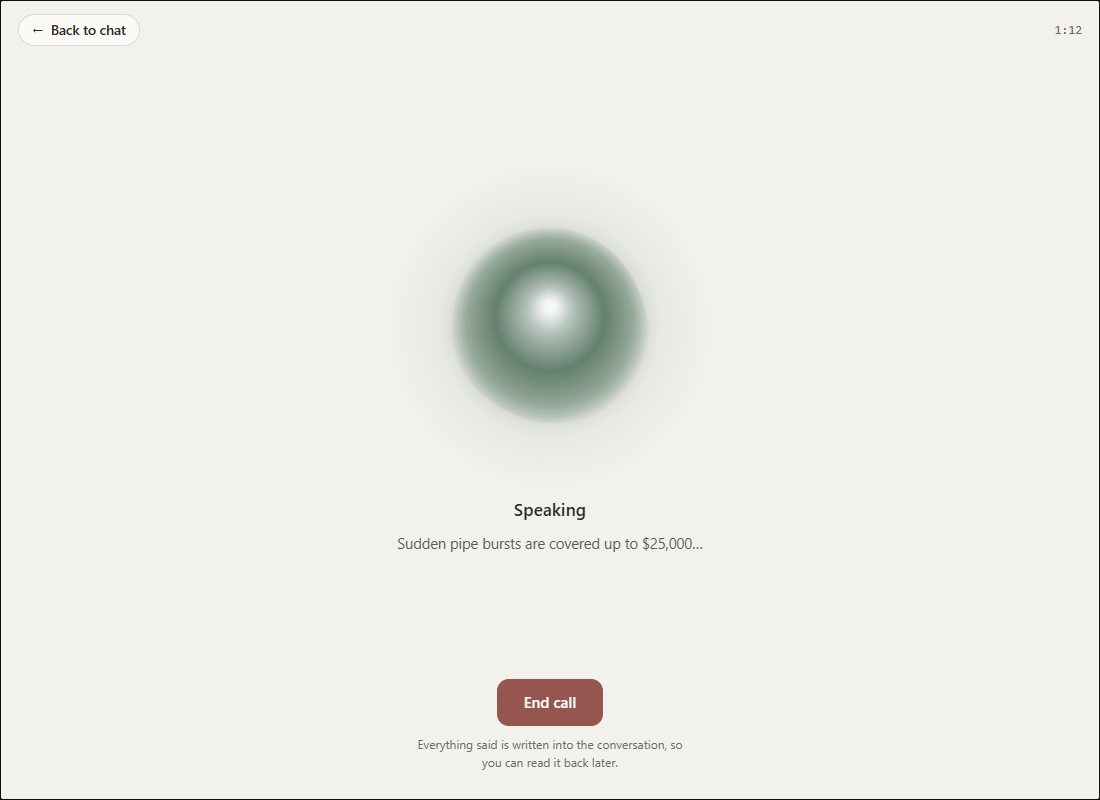
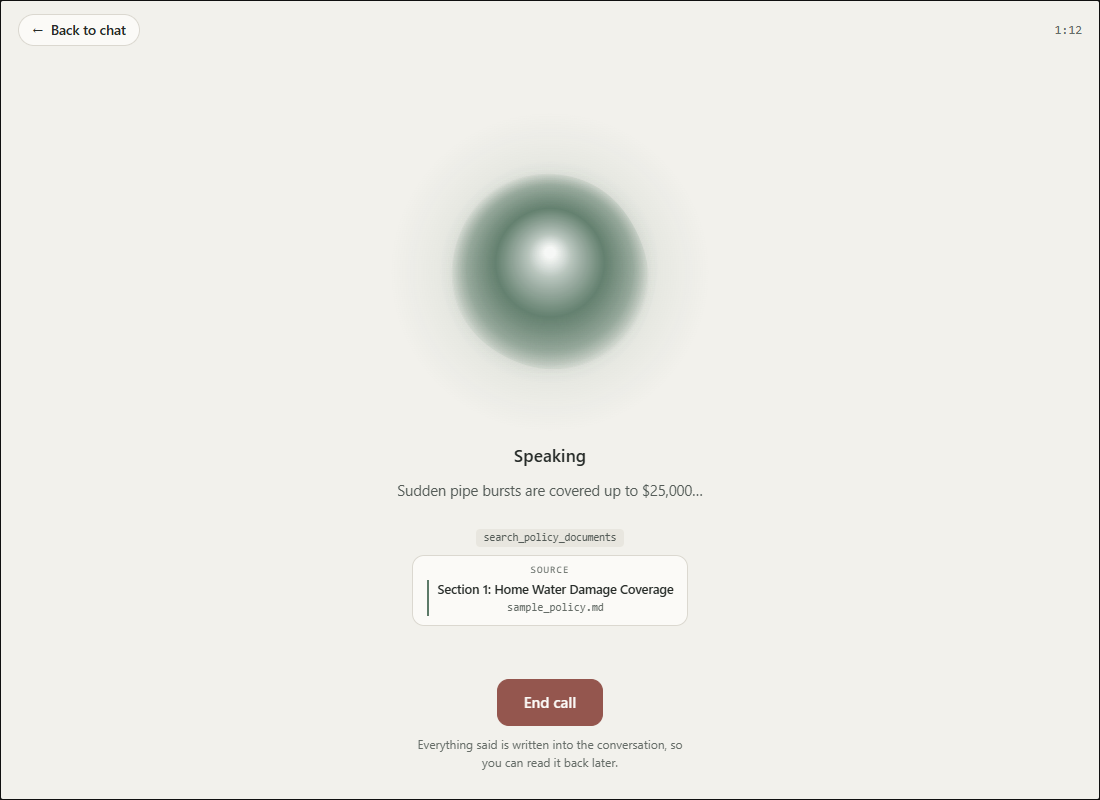
Show the tool and the citation on the call, not only behind it
Making the call full-screen put the conversation behind an opaque surface, and
tool chips and citations were still being written only there. So for exactly as
long as the caller was listening to an answer, the evidence that answer rests
on was invisible - and a coverage answer you cannot check is the thing this
system exists to avoid. Both now go to both places: the call surface, so they
can be seen while the answer is spoken, and the thread, so they survive it.

Three details that came out of building it:

- A second `sources` event is a restatement of the same turn, not an addition.
  Appending it put one section on screen twice under a single answer, which
  reads as two independent confirmations. Citations replace; tool chips stack,
  because two tools running really is two facts.
- The chip reads above the citation whichever event arrives first, ordered by
  what happened rather than by what landed.
- The status line said `search_policy_documents` mid-call. That is the
  function's name: fine in a chip, where it is evidence of what ran, and jargon
  in a status line, where the caller is being told what is happening.

Also cleared when a new question starts and when the call ends, so a section
consulted for the previous answer is never left sitting under this one.

355 tests.

Changed region(s): [[0.4018, 0.2188, 0.5873, 0.5312], [0.3709, 0.5625, 0.6491, 0.7812]]

diff --git a/frontend/src/voice.js b/frontend/src/voice.js
@@ -31,6 +31,7 @@
   const caption = document.getElementById("voice-caption");
   const phase = document.getElementById("voice-phase");
   const hangup = document.getElementById("voice-hangup");
+  const meta = document.getElementById("voice-meta");
   const back = document.getElementById("voice-back");
   const returnBar = document.getElementById("voice-return");
   const elapsed = document.getElementById("voice-elapsed");
@@ -61,8 +62,43 @@
     state.className = "pill pill--" + kind;
   }
 
+  /* What a policyholder should see while a tool runs. `search_policy_documents`
+     is the function's name; it belongs in the chip, where it is evidence of what
+     ran, not in the status line, where it is just jargon mid-call. */
+  const PHASE_LABELS = {
+    search_policy_documents: "Checking your policy",
+    get_claim_status: "Checking that claim",
+    submit_claim: "Preparing the claim",
+  };
+
+  function phaseLabel(raw) {
+    return PHASE_LABELS[raw] || raw;
+  }
+
+  /* Everything the current answer rests on, on the call surface itself.
+
+     Citations replace rather than stack: they describe the whole turn, so a
+     second `sources` event is a restatement, not an addition, and appending it
+     shows the same section twice under one answer. Tool chips do stack - two
+     tools running is two facts. */
+  function showOnCall(node) {
+    if (!meta) return;
+    if (node.classList.contains("sources")) {
+      const existing = meta.querySelector(".sources");
+      if (existing) {
+        existing.replaceWith(node);
+        return;
+      }
+    }
+    meta.appendChild(node);
+  }
+
+  function clearOnCall() {
+    if (meta) meta.replaceChildren();
+  }
+
   function setPhase(label, orbState) {
-    if (phase) phase.textContent = label;
+    if (phase) phase.textContent = phaseLabel(label);
     if (orb && orbState) orb.setState(orbState);
   }
 
@@ -154,6 +190,10 @@
         transcriptBubble.textContent = msg.text;
       }
     } else if (msg.type === "transcript_final") {
+      // A new question: whatever the last answer rested on no longer applies,
+      // and leaving it up would attribute this answer to a section that was
+      // never consulted for it.
+      clearOnCall();
       if (caption) caption.textContent = msg.text;
       if (transcriptBubble) {
         transcriptBubble.textContent = msg.text;
@@ -169,9 +209,13 @@
       if (caption) caption.textContent = "";
       appendAnswer(msg.text);
     } else if (msg.type === "sources") {
+      // Both places: the call surface, so it is visible while the answer is
+      // being spoken, and the thread, so it survives the call.
       decorate(window.OmniCare.renderSources(msg.sources || []));
+      showOnCall(window.OmniCare.renderSources(msg.sources || []));
     } else if (msg.type === "tool") {
       decorate(window.OmniCare.renderToolCalls([msg]));
+      showOnCall(window.OmniCare.renderToolCalls([msg]));
     } else if (msg.type === "confirm") {
       // Spoken readback is handled by TTS; the panel mirrors it visually so the
       // policyholder can check the digits by eye as well as by ear - and it goes
@@ -289,6 +333,7 @@
     if (panel) panel.hidden = true;
     if (returnBar) returnBar.hidden = true;
     if (orb) orb.stop();
+    clearOnCall();
     releaseAudio();
     stopTicker();
     setBackgroundInert(false);

diff --git a/frontend/src/styles.css b/frontend/src/styles.css
@@ -463,3 +463,30 @@ main {
 @media (prefers-reduced-motion: reduce) {
   .voice-return__dot { animation: none; }
 }
+
+/* What the spoken answer rests on, shown on the call itself. Citations are the
+   one thing that makes a coverage answer checkable, and putting them only in
+   the thread hid them behind the very surface the caller is looking at. */
+.voice__meta {
+  display: flex;
+  flex-direction: column;
+  align-items: center;
+  gap: 8px;
+  min-height: 54px;
+  max-width: 44ch;
+}
+
+/* Order by meaning, not by arrival: the tool ran and then produced the
+   citation, so it reads above it whichever event landed first. */
+.voice__meta .tools { margin: 0; justify-content: center; order: 1; }
+.voice__meta .sources { order: 2; }
+
+.voice__meta .sources {
+  margin: 0;
+  order: 2;
+  padding: 9px 14px;
+  border: 1px solid var(--rule);
+  border-radius: var(--radius);
+  background: var(--surface);
+  text-align: center;
+}

diff --git a/frontend/src/index.html b/frontend/src/index.html
@@ -75,6 +75,10 @@
               role="img" aria-label="Voice activity"></canvas>
       <p id="voice-phase" class="voice__phase" aria-live="polite">Listening</p>
       <p id="voice-caption" class="voice__caption"></p>
+      <!-- Tool chips and citations for the turn being spoken. The call
+           surface is opaque, so anything written only into the thread is
+           invisible for exactly as long as the caller is listening. -->
+      <div id="voice-meta" class="voice__meta"></div>
     </div>
 
     <div class="voice__actions">

diff --git a/tests/e2e/test_voice_ui.py b/tests/e2e/test_voice_ui.py
@@ -479,3 +479,98 @@ def test_a_turn_that_produced_nothing_leaves_nothing(page) -> None:
          {"type": "answer_delta", "text": ""},
          {"type": "state", "label": "listening", "kind": "ok"})
     assert len(assistant_texts(page)) == before, "an empty card was left behind"
+
+
+# ------------------------------------------- what the caller can see on a call
+
+def test_the_citation_is_visible_during_the_call(page) -> None:
+    """The call surface is opaque and full-screen, so anything written into the
+    thread is behind it. Citations landing there and nowhere else meant the one
+    signal that makes a coverage answer trustworthy was invisible for exactly
+    as long as the caller was listening to that answer.
+    """
+    page.evaluate("() => window.OmniCareVoice.openCall()")
+    feed(page,
+         {"type": "answer_delta", "text": "Covered up to $25,000."},
+         {"type": "sources", "sources": [CITATION]})
+    page.wait_for_timeout(150)
+
+    on_call = page.evaluate(
+        "() => document.getElementById('voice-meta').innerText"
+    )
+    assert "Section 1: Home Water Damage Coverage" in on_call
+
+    # And still in the thread, for reading back afterwards.
+    page.evaluate("() => window.OmniCareVoice.minimiseCall()")
+    assert "Section 1" in page.evaluate(
+        """() => [...document.querySelectorAll('.msg--assistant .bubble')].pop()
+                 .querySelector('.sources')?.innerText || ''"""
+    )
+
+
+def test_the_tool_is_visible_during_the_call(page) -> None:
+    page.evaluate("() => window.OmniCareVoice.openCall()")
+    feed(page, {"type": "tool", "name": "get_claim_status", "status": "ok"})
+    page.wait_for_timeout(150)
+
+    assert "get_claim_status" in page.evaluate(
+        "() => document.getElementById('voice-meta').innerText"
+    )
+
+
+def test_each_turn_starts_from_a_clean_slate(page) -> None:
+    """Otherwise the previous answer's citation sits under the next question,
+    which is worse than showing none: it attributes an answer to a section that
+    was not consulted for it."""
+    page.evaluate("() => window.OmniCareVoice.openCall()")
+    feed(page,
+         {"type": "answer_delta", "text": "Covered."},
+         {"type": "sources", "sources": [CITATION]},
+         {"type": "state", "label": "listening", "kind": "ok"})
+    feed(page, {"type": "transcript_final", "text": "What about my claim?"})
+    page.wait_for_timeout(150)
+
+    assert page.evaluate(
+        "() => document.getElementById('voice-meta').innerText.trim()"
+    ) == "", "the previous turn's citation is still on screen"
+
+
+def test_the_phase_line_is_written_for_a_person(page) -> None:
+    """`search_policy_documents` is the function's name, not a status a
+    policyholder should be shown mid-call."""
+    page.evaluate("() => window.OmniCareVoice.openCall()")
+    feed(page, {"type": "state", "label": "search_policy_documents", "kind": "busy"})
+    page.wait_for_timeout(120)
+
+    phase = page.evaluate("() => document.getElementById('voice-phase').innerText")
+    assert "_" not in phase, f"raw identifier shown to the caller: {phase!r}"
+    assert phase.lower().startswith("checking"), phase
+
+
+def test_a_restated_citation_is_not_shown_twice(page) -> None:
+    """`sources` describes the whole turn, so a second event is a restatement
+    rather than an addition - appending it puts the same section on screen
+    twice under one answer, which reads as two independent confirmations."""
+    page.evaluate("() => window.OmniCareVoice.openCall()")
+    feed(page,
+         {"type": "sources", "sources": [CITATION]},
+         {"type": "answer_delta", "text": "Covered."},
+         {"type": "sources", "sources": [CITATION]})
+    page.wait_for_timeout(150)
+
+    blocks = page.evaluate(
+        "() => document.querySelectorAll('#voice-meta .sources').length"
+    )
+    assert blocks == 1, f"the citation is on screen {blocks} times"
+
+
+def test_two_tools_are_both_shown(page) -> None:
+    """Chips do stack: two tools running is two facts about the turn."""
+    page.evaluate("() => window.OmniCareVoice.openCall()")
+    feed(page,
+         {"type": "tool", "name": "search_policy_documents", "status": "ok"},
+         {"type": "tool", "name": "get_claim_status", "status": "ok"})
+    page.wait_for_timeout(150)
+
+    text = page.evaluate("() => document.getElementById('voice-meta').innerText")
+    assert "search_policy_documents" in text and "get_claim_status" in text

diff --git a/README.md b/README.md
@@ -8,7 +8,7 @@ looks up existing claims, and files new ones — never without confirming first.
 
 > **Status:** running and verified from a clean clone. `docker compose up`
 > with no configuration at all brings up eight containers and answers;
-> **349 tests pass**, including **57 end-to-end against the live containers**;
+> **355 tests pass**, including **63 end-to-end against the live containers**;
 > all six eval gates are green; the voice worker registers, is dispatched, and
 > speaks. See [Verification](#verification) and the
 > [walkthrough](docs/walkthrough.md).
@@ -243,7 +243,7 @@ All six gates green: citation precision 1.00 · exclusion recall 1.00 ·
 injection block rate 1.00 · unconfirmed writes 1.00 · tool selection 1.00
 (gate 0.90) · tool-argument match 1.00 (gate 0.95).
 
-**Against the running stack — 57 tests, `pytest tests/e2e -m e2e`:**
+**Against the running stack — 63 tests, `pytest tests/e2e -m e2e`:**
 
 Confirmed live: the graded health body; RAG answering with a real section
 citation; the exclusion stated plainly; a claim looked up from the seeded
@@ -420,7 +420,7 @@ doing so rather than trusting a green in-process suite:
 
 `git clone` then `docker compose up --build`, with no `.env` and no key: eight
 containers, the frontend on :3000, the graded health body, and coverage answers
-with real citations from real embeddings. Then `pytest` — 349 pass, and the e2e
+with real citations from real embeddings. Then `pytest` — 355 pass, and the e2e
 tests skip rather than fail when no stack is running. A GitHub Actions workflow
 (`.github/workflows/ci.yml`) runs both: the offline suite, and `docker compose
 up` proving the graded contract with no credentials.

diff --git a/docs/walkthrough.md b/docs/walkthrough.md
@@ -202,6 +202,14 @@ A call takes the whole screen. There is nothing to read on one and exactly one
 thing to look at, and a 190px orb wedged under the transcript said "widget" for
 what is the entire foreground task.
 
+The tool that ran and the section it returned are shown **on the call**, not
+only in the thread. Making the call full-screen put the transcript behind an
+opaque surface, so citations landing there and nowhere else were invisible for
+exactly as long as the caller was listening to the answer they justify - and a
+coverage answer you cannot check is the thing this whole system is built to
+avoid. They are written to both places: the call, so they can be seen now, and
+the conversation, so they survive the call.
+
 The orb is driven by an `AnalyserNode` on the real audio — the microphone track
 while the caller speaks, the agent's subscribed track while it answers — not by
 a timer. That is the point of it: a decorative animation looks identical whether
@@ -376,7 +384,7 @@ a dashboard.
 
 ```bash
 make test        # 292 in-process, no container, no network
-pytest tests/e2e -m e2e   # 57 against the running stack
+pytest tests/e2e -m e2e   # 63 against the running stack
 make eval        # the behavioural gate
 ```
 
@@ -384,7 +392,7 @@ make eval        # the behavioural gate
 |---|---:|
 | `tests/unit` | 214 |
 | `tests/contract` | 47 |
-| `tests/e2e` | 57 |
+| `tests/e2e` | 63 |
 | `evals` | 31 |
 
 All six eval gates green: citation precision 1.00 · exclusion recall 1.00 ·
